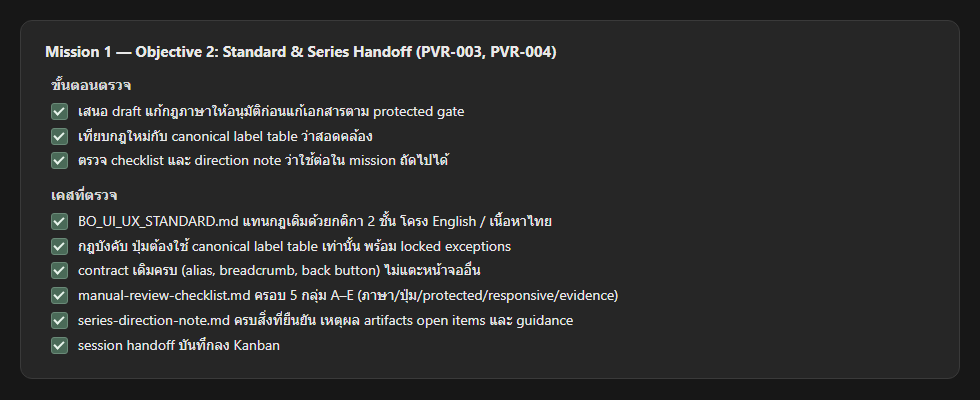
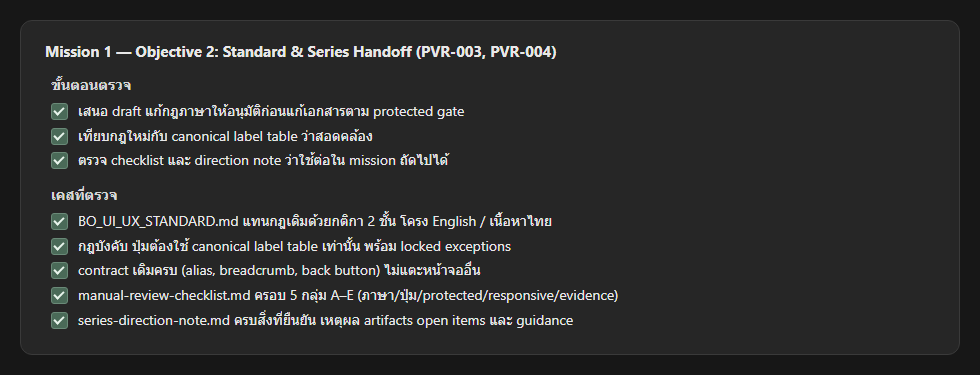
docs(work-summary,label-standard): ban invented Thai translations of established English terms + remove session handoff checklist item
- Add rule forbidding invented Thai translations (e.g., "checklist ตรวจมือ" for "manual review checklist", "ตรวจจอ" for "ตรวจหน้าจอ prototype") — use original English terms when they appear in filenames/tasks/actual work conversations
- Remove "session handoff บันทึกลง Kanban" from objective 2 checklist +

Changed region(s): [[0.0306, 0.2053, 0.6429, 0.88], [0.0306, 0.1173, 0.5816, 0.176]]

diff --git a/.agents/skills/work-summary/SKILL.md b/.agents/skills/work-summary/SKILL.md
@@ -1101,6 +1101,7 @@ Task ID: <task_id>
 
 1. **ใช้ภาษาที่คนทั่วไปอ่านเข้าใจง่าย** — เน้นภาพรวม หลีกเลี่ยงคำศัพท์เทคนิคและโค้ด ใช้ภาษาที่อธิบายผลลัพธ์ที่ผู้ใช้เห็น/ได้ ไม่ใช่ภาษาที่อธิบายวิธีทำในระดับโค้ด — แต่ domain term ที่ใช้ประจำใน project และเป็นภาษาที่ dev ไทยพูดกันปกติ (เช่น contract, session, audit, sidebar, flow, module, requirement, task) **คงภาษาอังกฤษไว้** ห้ามแปลตรงเป็นคำที่อ่านยากกว่า เช่น ห้ามเขียน "สัญญา" แทน "contract" — กฎข้อนี้หมายถึงห้ามใช้ code symbol ไม่ใช่บังคับแปลศัพท์ทุกคำ
    - **คำศัพท์ต้องตรงกับที่ใช้ตอนทำงานและพูดคุยกันจริง** — ห้ามเปลี่ยนคำเรียกตอนสรุป เช่น ตอนทำงานทั้ง session เรียก "label" ก็ต้องเขียน "label" ในสรุป ห้ามสลับเป็น "ป้าย" เพราะคนอ่านจะงงว่าพูดถึงอะไร; ใช้คำเดียวกันกับที่ผู้ใช้และเอกสารเรียกตลอดงานนั้น
+   - **ห้ามแต่งคำแปลใหม่ของคำอังกฤษที่ใช้อยู่แล้ว** — เช่น ห้ามเขียน "checklist ตรวจมือ" แทน "manual review checklist" (ชื่อไฟล์/ชื่อ task ใช้คำอังกฤษเดิม) ห้ามเขียน "ตรวจจอ" แทน "ตรวจหน้าจอ prototype" — ถ้าคำอังกฤษคือสิ่งที่ใช้จริงในงาน (ชื่อไฟล์, ชื่อ task, คำที่คุยกัน) ให้ใช้คำนั้นตรง ๆ
    - **ทุกข้อความต้องชี้ชัดว่าพูดถึงส่วนไหน** — ระบุหน้า/จอ/ไฟล์/ส่วนของระบบให้คนอ่านนึกภาพตามได้ทันที (เช่น "หน้า User List", "modal ยืนยันลบ", "ไฟล์มาตรฐาน label") ห้ามเขียนกว้างจนจับต้องไม่ได้
    - ใช้ภาษาคนทำงานพูดคุยกันปกติ ไม่ใช่ภาษาทางการ/ภาษาเอกสารราชการ
 2. **เน้นสิ่งที่ทำและผลลัพธ์** — ไม่ต้องอธิบายวิธีทำละเอียด
